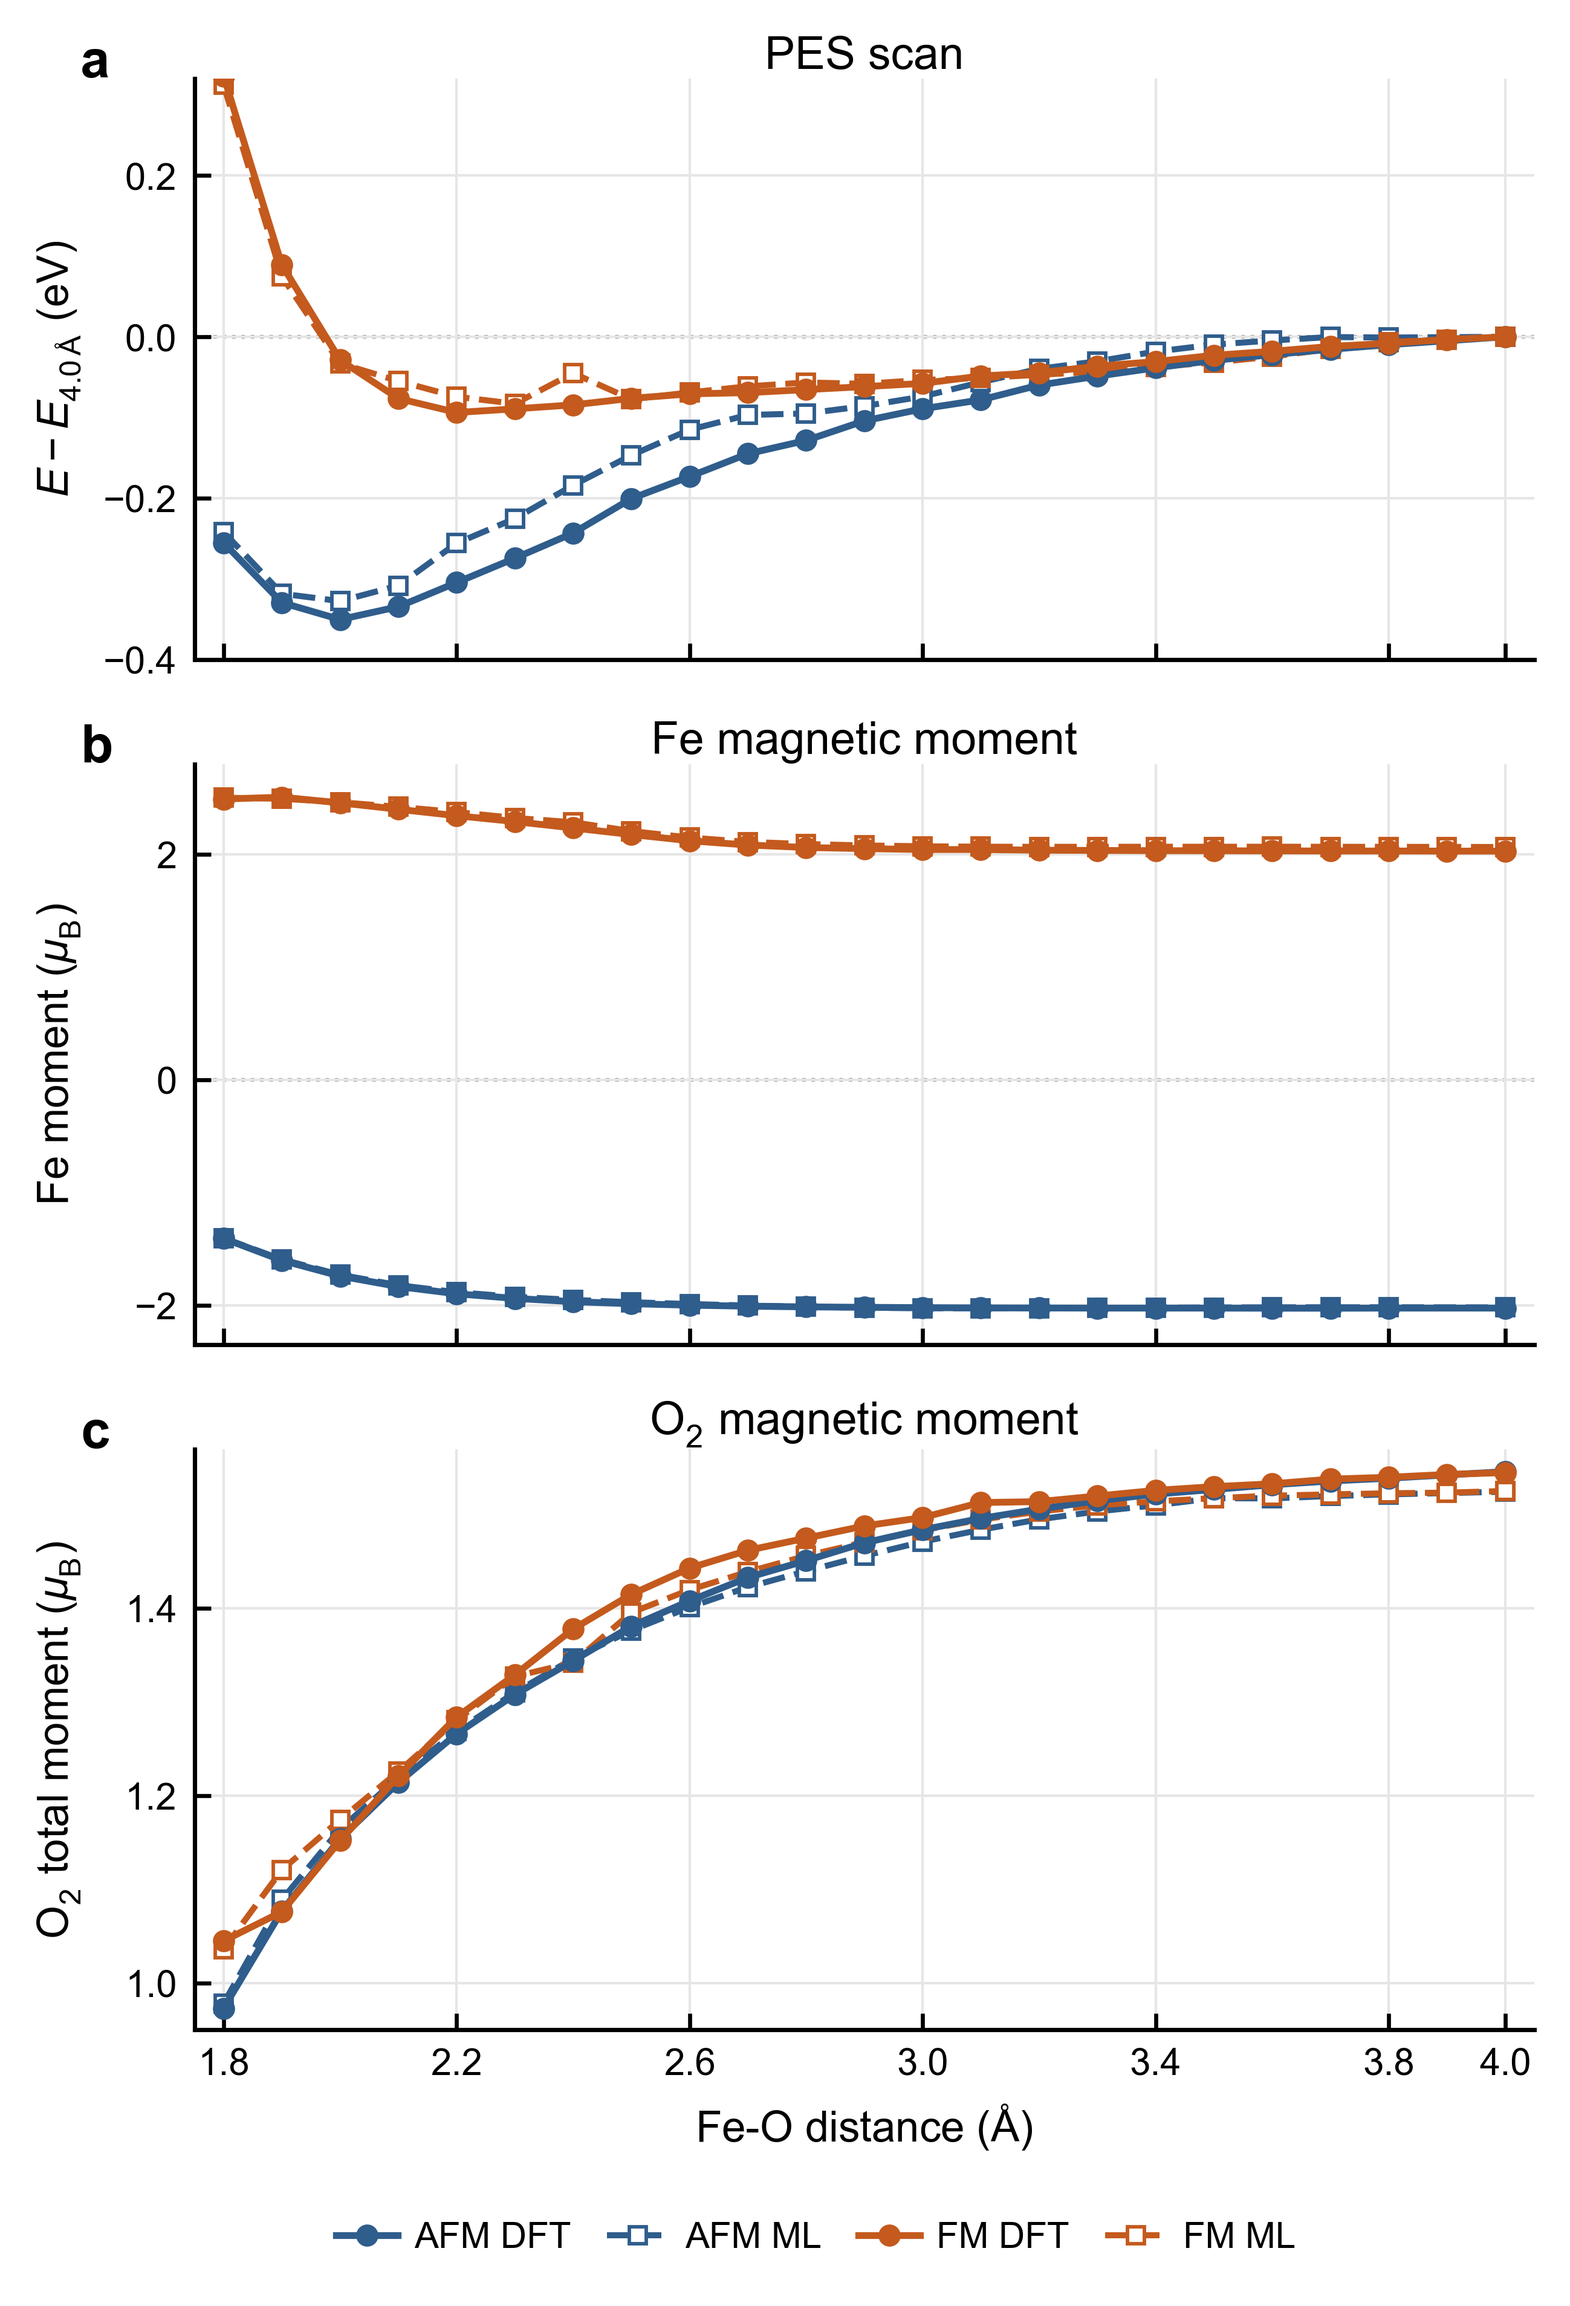
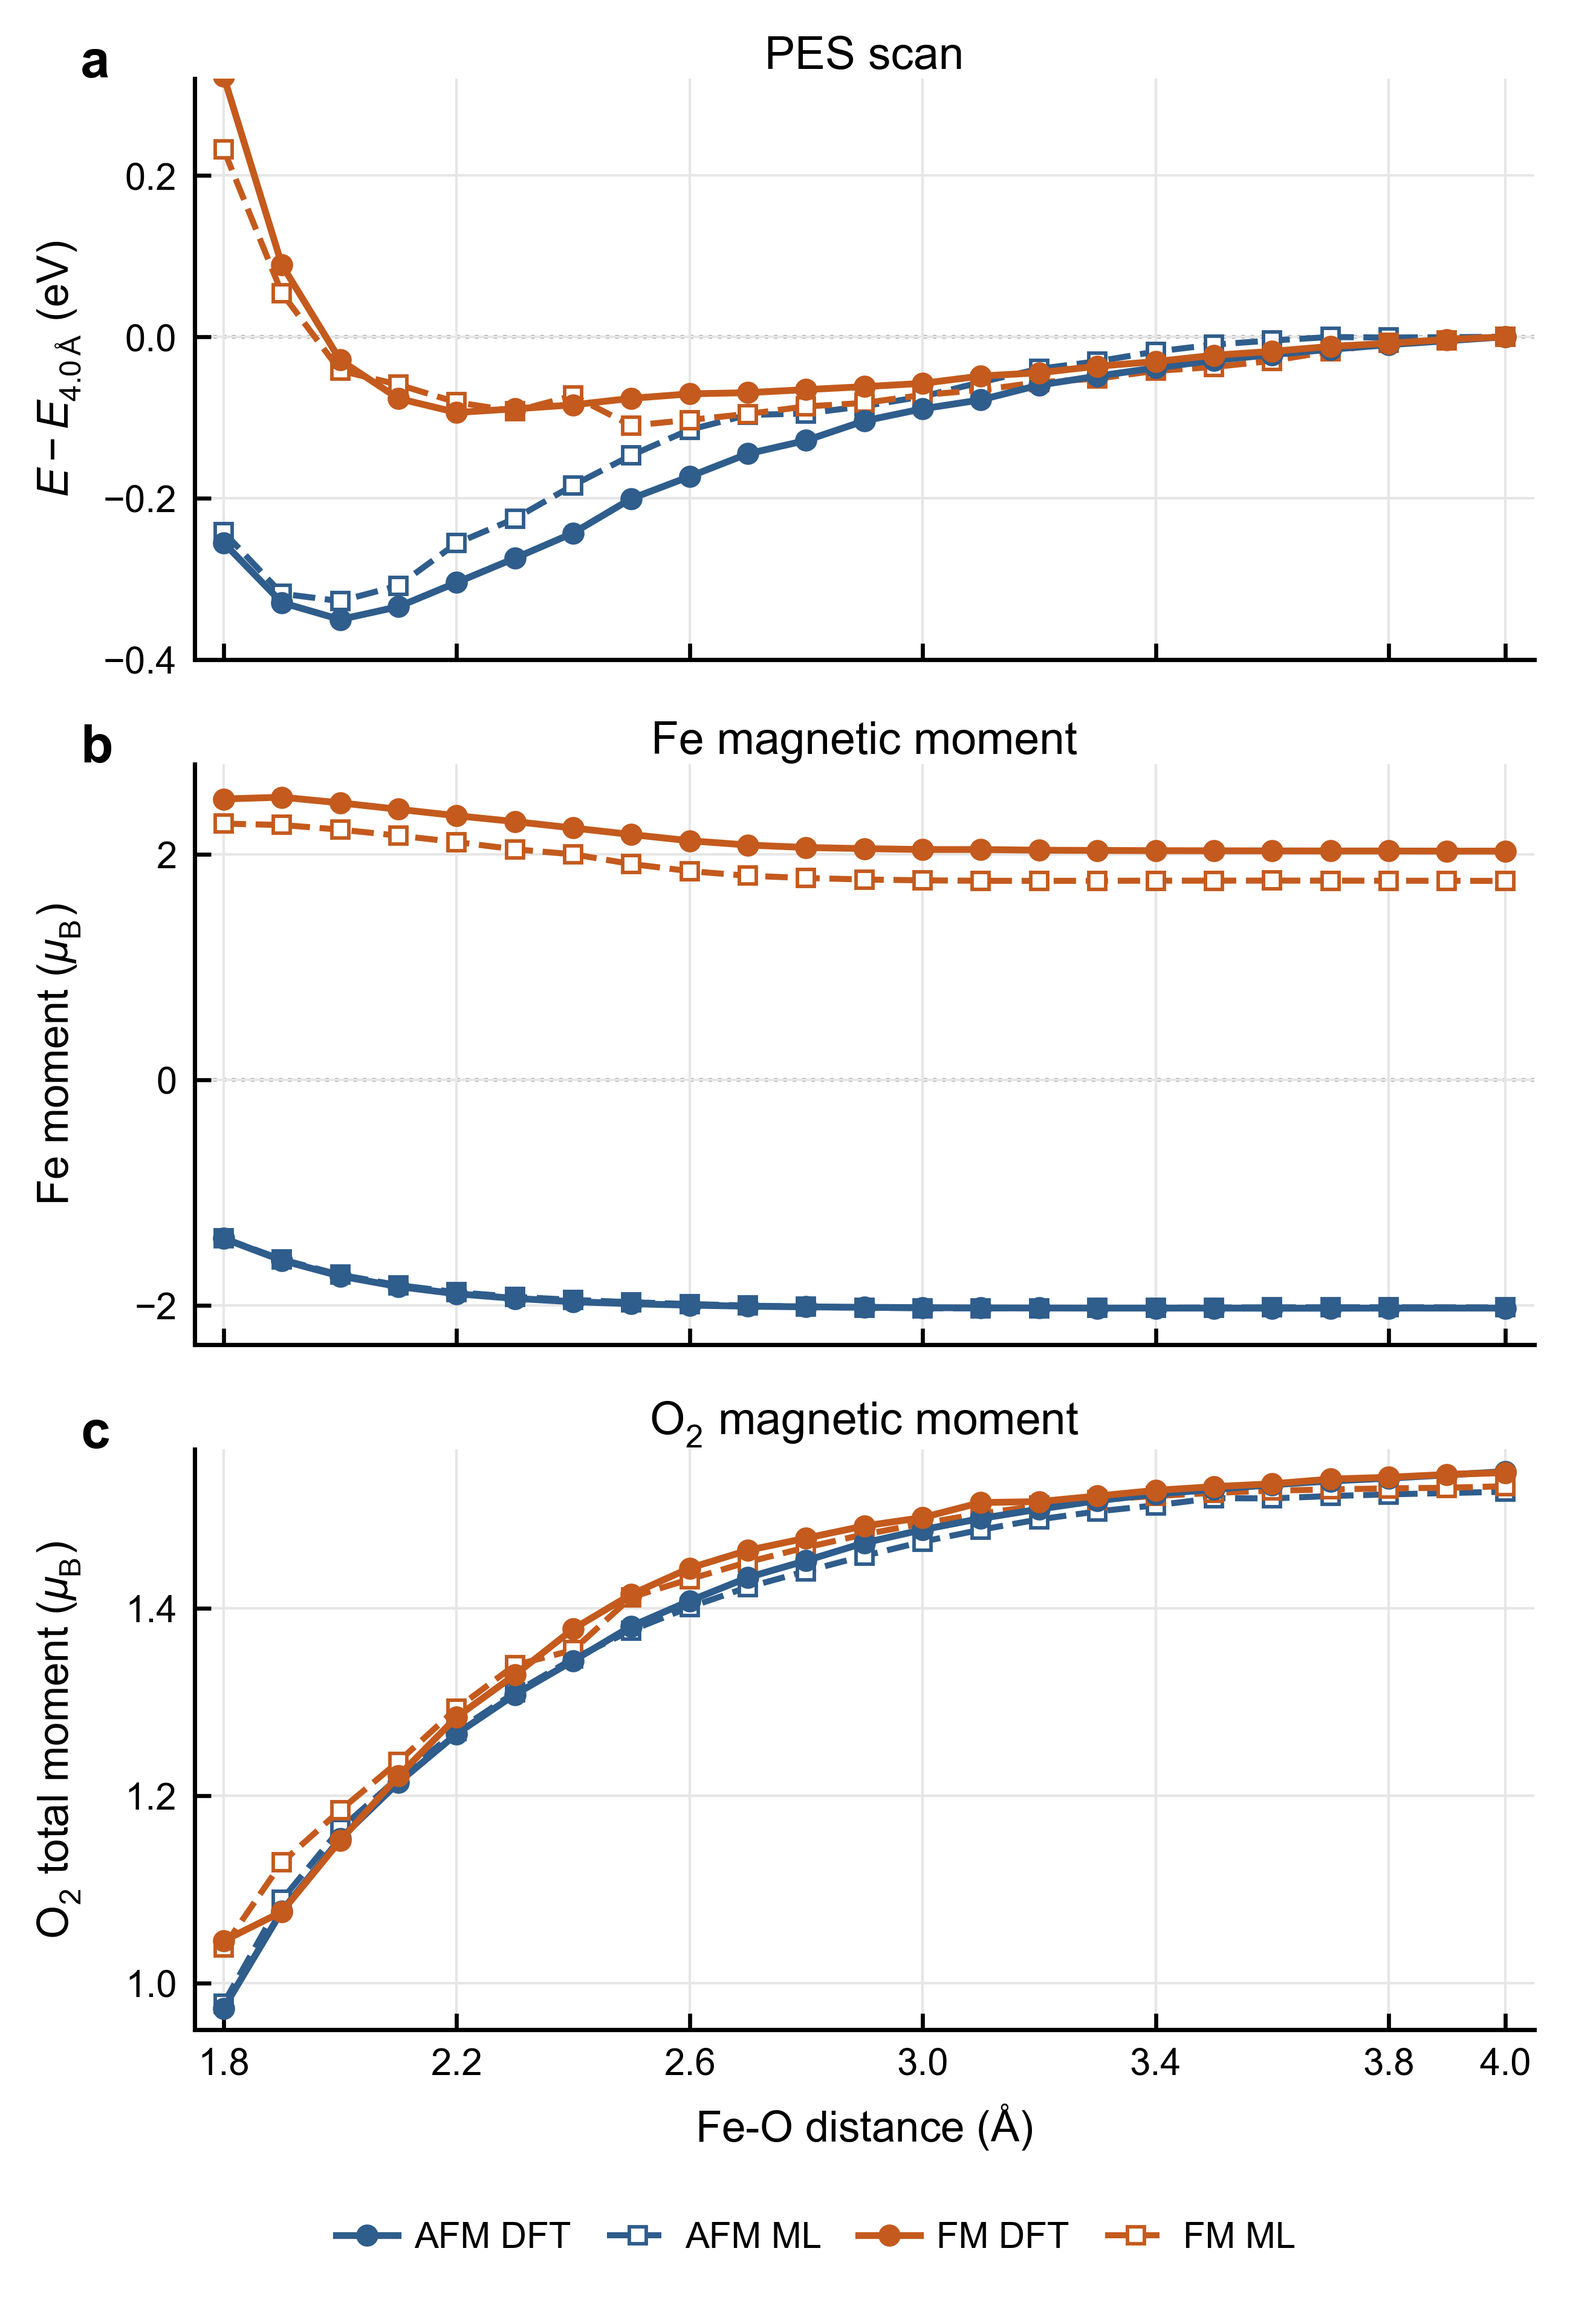
Update FeN4 single-checkpoint PES release

diff --git a/README.md b/README.md
@@ -26,7 +26,7 @@ These labels describe the magnetic seed protocol, not a claim that one protocol 
 The FeN4 PES and ML-MD figures were generated with different model families because the two calculations emphasize different regions of configuration space.
 
 - **ML-MD:** `examples/fen4/models/md_spp_previous_best.pt` and `md_stp_rule_best.pt`, trained on the stride-4 AIMD datasets in `examples/fen4/data/md/`.
-- **PES:** `pes_afm_energy_weighted_best.pt` and `pes_fm_opt_finetuned_best.pt`, trained/fine-tuned with the AIMD-plus-optimization data and the short-distance optimization data in `examples/fen4/data/pes/`. The final PES plot combines the AFM energy-weighted branch checkpoint and the FM optimization-finetuned branch checkpoint; it is therefore not represented by one universal FeN4 checkpoint.
+- **PES:** the released `figures/pes.*` and `figure_data/pes_dft_ml.csv` use one checkpoint for both spin branches: `examples/fen4/models/pes_afm_energy_weighted_best.pt`. This checkpoint was fine-tuned on the AFM constrained-optimization trajectories in `examples/fen4/data/pes/`. AFM and FM scans use their respective AIMD geometry templates; at every target Fe-O separation, the conditioning moments are initialized from a branch-matched early configuration of the corresponding DFT constrained-relaxation trajectory and then held fixed during the static MACE-FiLM optimization. The accompanying `pes_fm_opt_finetuned_best.pt` is retained as a branch-specific comparison checkpoint, but it does not generate the released PES figure.
 
 ### Mn-Au-O2
 
